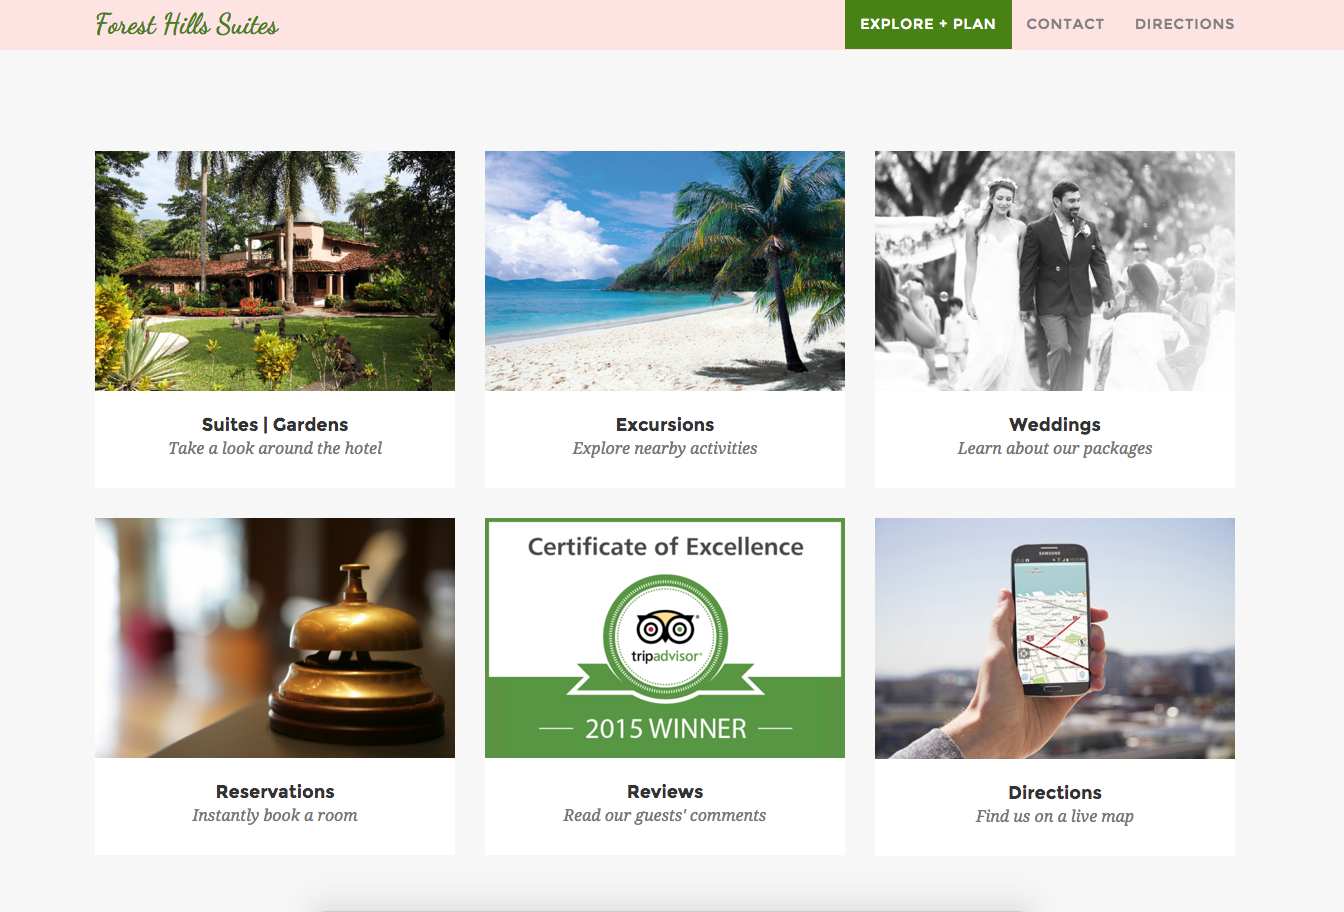
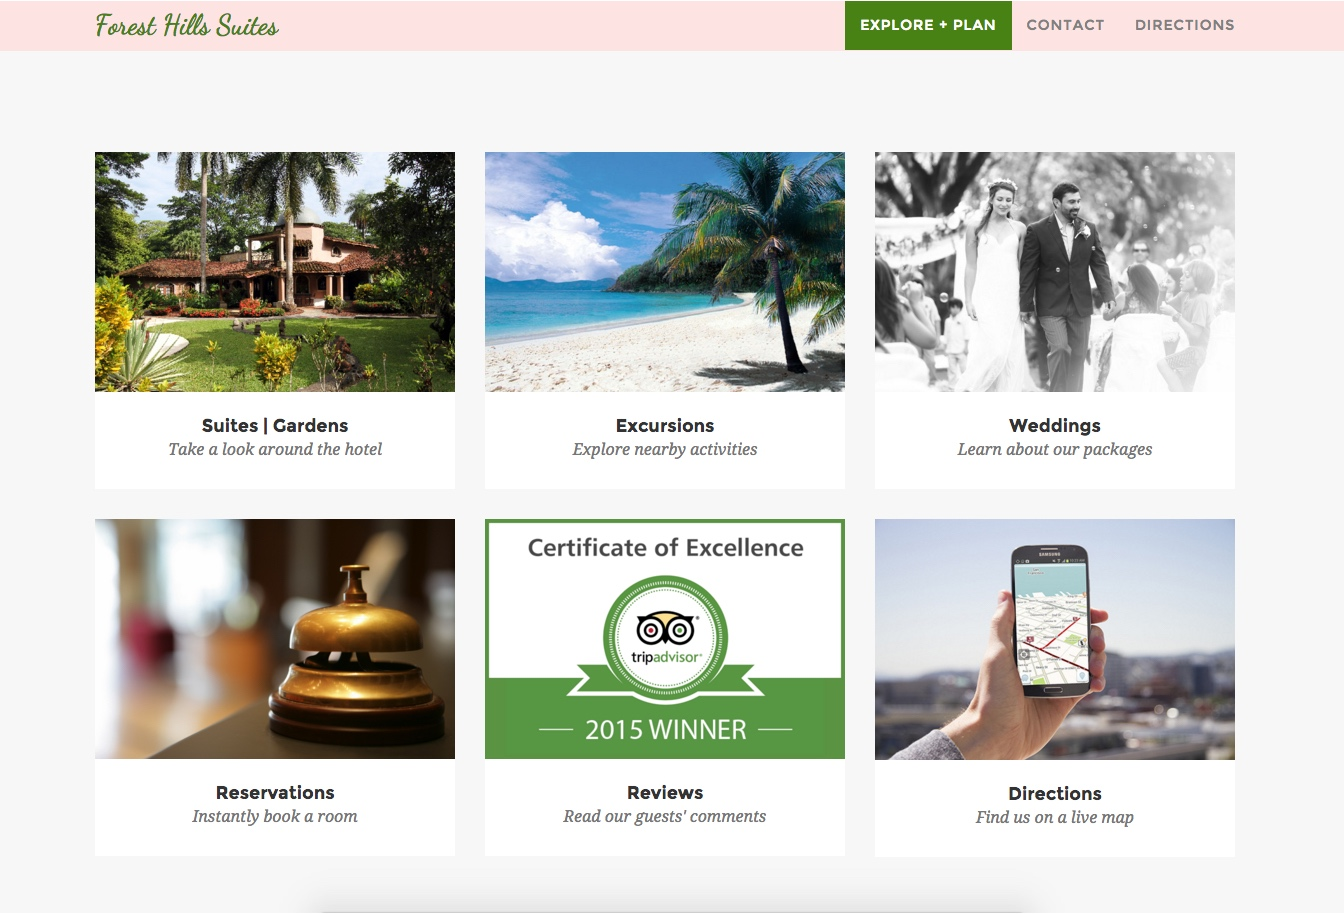
final update before make responsive

diff --git a/assets/css/style.css b/assets/css/style.css
@@ -1120,13 +1120,15 @@ Resume Timeline
 
 /* === Work Section === */
 .works-section {
-    background-color: #f7f7f7;
+    background-image: url(../images/works/background_works3.jpg);
+    background-size: 100%;
     padding-bottom: 700px;
 }
 .portfolio-item {
     padding-right: 5px;
     padding-left: 5px;
     min-height: 235px;
+    font-family: 'Offside', cursive;
 }
 .portfolio-bg{
    background: #fff;
@@ -1134,10 +1136,12 @@ Resume Timeline
    margin-bottom: 20px;
    border: 1px solid #eee;
    border-bottom: 3px double #eee;
+   font-family: 'Offside', cursive;
 }
 .portfolio {
     position: relative;
     overflow: hidden;
+    font-family: 'Offside', cursive;
 }
 
 
@@ -1240,6 +1244,7 @@ Resume Timeline
     height: 45px;
     width: 100%;
     text-align: center;
+    font-family: 'Offside', cursive;
 }
 
 .portfolio:hover .tt-overlay, 
@@ -1910,30 +1915,30 @@ Icon for all respective meta
 
         /* Standard syntax */
         @keyframes rocketgirlfloat {
-            0%   {transform: translate(175px,-80px) rotate(30deg) ;}
-      /*1*/ 15%  {transform: translate(-254px,310px) rotate(-30deg) scale(1.5,1.5);}
-      /*2*/ 35%  {transform: translate(-140px,10px) rotate(40deg) scale(0.75,0.75);}
-      /*3*/ 45%  {transform: translate(-11px,-110px) rotate(-30deg);}
-      /*4*/ 55%  {transform: translate(10px,60px) rotate(30deg) scale(1.5,1.5);}
-      /*5*/ 65%  {transform: translate(-100px,-80px) rotate(30deg);}
-            75%  {transform: translate(40px,-10px) rotate(90deg) scale(1.5,1.5);}
+            0%   {transform: translate(90px,-10px) rotate(30deg) ;}
+      /*1*/ 15%  {transform: translate(-104px,350px) rotate(-30deg) scale(1.2,1.2);}
+      /*2*/ 35%  {transform: translate(20px,180px) rotate(40deg) scale(0.4,0.4);}
+      /*3*/ 45%  {transform: translate(-11px,100px) rotate(-30deg);}
+      /*4*/ 55%  {transform: translate(10px,70px) rotate(30deg) scale(1.2,1.2);}
+      /*5*/ 65%  {transform: translate(-100px,80px) rotate(30deg) scale(.6,.6);}
+            75%  {transform: translate(40px,100px) rotate(90deg) scale(1.2,1.2);}
             85%  {transform: translate(-24px,90px) rotate(20deg);}
-            95%  {transform: translate(40px,10px) rotate(30deg);}
-            100% {transform: translate(-44px,-20px) rotate(30deg);}
+            95%  {transform: translate(-25px,120px) rotate(30deg) scale(.4,.4;}
+            100% {transform: translate(-44px,100px) rotate(30deg);}
         }
 
         /* Chrome, Safari, Opera */ 
         @-webkit-keyframes rocketgirlfloat {
-            0%   {transform: translate(175px,-80px) rotate(30deg) ;}
-      /*1*/ 15%  {transform: translate(-254px,310px) rotate(-10deg) scale(1.5,1.5);}
-      /*2*/ 35%  {transform: translate(-140px,10px) rotate(30deg) scale(0.75,0.75);}
-      /*3*/ 45%  {transform: translate(-11px,-110px) rotate(-40deg);}
-      /*4*/ 55%  {transform: translate(10px,60px) rotate(20deg) scale(1.5,1.5);}
-      /*5*/ 65%  {transform: translate(-100px,-80px) rotate(30deg);}
-            75%  {transform: translate(40px,-10px) rotate(90deg) scale(1.5,1.5);}
+            0%   {transform: translate(90px,-10px) rotate(30deg) ;}
+      /*1*/ 15%  {transform: translate(-104px,350px) rotate(-30deg) scale(1.2,1.2);}
+      /*2*/ 35%  {transform: translate(20px,180px) rotate(40deg) scale(0.4,0.4);}
+      /*3*/ 45%  {transform: translate(-11px,100px) rotate(-30deg);}
+      /*4*/ 55%  {transform: translate(10px,70px) rotate(30deg) scale(1.2,1.2);}
+      /*5*/ 65%  {transform: translate(-100px,80px) rotate(30deg) scale(.6,.6);}
+            75%  {transform: translate(40px,100px) rotate(90deg) scale(1.2,1.2);}
             85%  {transform: translate(-24px,90px) rotate(20deg);}
-            95%  {transform: translate(40px,10px) rotate(30deg);}
-            100% {transform: translate(-44px,-20px) rotate(30deg);}
+            95%  {transform: translate(-25px,120px) rotate(30deg) scale(.4,.4;}
+            100% {transform: translate(-44px,100px) rotate(30deg);}
         }
 
         .rockettext{
@@ -2208,21 +2213,24 @@ Icon for all respective meta
     line-height: 110%;
 }
 .portfolio-modal .modal-content h2{
+    font-family: 'Offside', cursive;
     margin-bottom:15px;
     font-size:2em
 }
 .portfolio-modal .modal-content p{
+    font-family: 'Offside', cursive;
     margin-bottom:30px;
     font-size:1em;
     font-color: red;
 }
 .portfolio-modal .modal-content p.item-intro{
     margin:20px 0 30px;
-    font-family:"Droid Serif","Helvetica Neue",Helvetica,Arial,sans-serif;
+    font-family: 'Offside', cursive;
     font-style:italic;
     font-size:16px
 }
 .portfolio-modal .modal-content ul.list-inline{
+    font-family: 'Offside', cursive;
     margin-bottom:30px;
     margin-top:0
 }

diff --git a/index.html b/index.html
@@ -28,6 +28,7 @@
 	<link href="assets/css/style.css" rel="stylesheet" media="screen">
   <!-- Responsive CSS -->
   <link href="assets/css/responsive.css" rel="stylesheet">
+  <link href="assets/css/super_responsive.css" rel="stylesheet">
 
   <!-- HTML5 Shim and Respond.js IE8 support of HTML5 elements and media queries -->
   <!-- WARNING: Respond.js doesn't work if you view the page via file:// -->
@@ -237,10 +238,10 @@
 
       <div class="container-works">
 
-        <h2 class="section-title wow fadeInUp">Portfolio</h2>
+        <h2 class="section-title wow fadeInUp"><font color="white">Portfolio</font></h2>
       
 
-            <div class="portfolio-item col-xs-12 col-sm-6 col-md-4 col-lg-3" data-groups='["all", "design"]'>
+            <div class="portfolio-item col-xs-12 col-sm-6 col-md-6 col-lg-3" data-groups='["all", "design"]'>
               <div class="portfolio-bg">
                 <div class="portfolio">
                   <a href="#portfolioModal2" class="portfolio-link" data-toggle="modal">
@@ -257,7 +258,7 @@
             </div><!-- /.portfolio-item -->
 
 
-            <div class="portfolio-item col-xs-12 col-sm-6 col-md-4 col-lg-3" data-groups='["all", "design"]'>
+            <div class="portfolio-item col-xs-12 col-sm-6 col-md-6 col-lg-3" data-groups='["all", "design"]'>
               <div class="portfolio-bg">
                 <div class="portfolio">
                   <a href="#portfolioModal1" class="portfolio-link" data-toggle="modal">
@@ -274,7 +275,7 @@
             </div><!-- /.portfolio-item -->
 
 
-            <div class="portfolio-item col-xs-12 col-sm-6 col-md-4 col-lg-3" data-groups='["all", "design"]'>
+            <div class="portfolio-item col-xs-12 col-sm-6 col-md-6 col-lg-3" data-groups='["all", "design"]'>
               <div class="portfolio-bg">
                 <div class="portfolio">
                   <a href="#portfolioModal4" class="portfolio-link" data-toggle="modal">
@@ -290,7 +291,7 @@
               </div><!-- /.portfolio-bg -->
             </div><!-- /.portfolio-item -->
 
-            <div class="portfolio-item col-xs-12 col-sm-6 col-md-4 col-lg-3" data-groups='["all", "design"]'>
+            <div class="portfolio-item col-xs-12 col-sm-6 col-md-6 col-lg-3" data-groups='["all", "design"]'>
               <div class="portfolio-bg">
                 <div class="portfolio">
                   <a href="#portfolioModal3" class="portfolio-link" data-toggle="modal">
@@ -307,7 +308,7 @@
             </div><!-- /.portfolio-item -->
 
 
-            <div class="portfolio-item col-xs-12 col-sm-6 col-md-4 col-lg-3" data-groups='["all", "design"]'>
+            <div class="portfolio-item col-xs-12 col-sm-6 col-md-6 col-lg-3" data-groups='["all", "design"]'>
               <div class="portfolio-bg">
                 <div class="portfolio">
                   <a href="#portfolioModal5" class="portfolio-link" data-toggle="modal">
@@ -323,7 +324,7 @@
               </div><!-- /.portfolio-bg -->
             </div><!-- /.portfolio-item -->
 
-            <div class="portfolio-item col-xs-12 col-sm-6 col-md-4 col-lg-3" data-groups='["all", "design"]'>
+            <div class="portfolio-item col-xs-12 col-sm-6 col-md-6 col-lg-3" data-groups='["all", "design"]'>
               <div class="portfolio-bg">
                 <div class="portfolio">
                   <a href="#portfolioModal6" class="portfolio-link" data-toggle="modal">
@@ -339,7 +340,7 @@
               </div><!-- /.portfolio-bg -->
             </div><!-- /.portfolio-item -->
 
-            <div class="portfolio-item col-xs-12 col-sm-6 col-md-4 col-lg-3" data-groups='["all", "design"]'>
+            <div class="portfolio-item col-xs-12 col-sm-6 col-md-6 col-lg-3" data-groups='["all", "design"]'>
               <div class="portfolio-bg">
                 <div class="portfolio">
                   <a href="#portfolioModal7" class="portfolio-link" data-toggle="modal">
@@ -356,7 +357,7 @@
             </div><!-- /.portfolio-item -->
 
 
-            <div class="portfolio-item col-xs-12 col-sm-6 col-md-4 col-lg-3" data-groups='["all", "design"]'>
+            <div class="portfolio-item col-xs-12 col-sm-6 col-md-6 col-lg-3" data-groups='["all", "design"]'>
               <div class="portfolio-bg">
                 <div class="portfolio">
                   <a href="#portfolioModal8" class="portfolio-link" data-toggle="modal">

diff --git a/assets/css/super_responsive.css b/assets/css/super_responsive.css
@@ -1,0 +1,108 @@
+@media (max-width : 400px) {
+	.works-section {
+    background-color: blue;
+    padding-bottom: 2300px;
+}
+}
+@media only screen and (min-width : 401px) and (max-width : 445px) {
+	.works-section {
+    background-color: pink;
+    padding-bottom: 2550px;
+	}
+}
+
+@media (min-width : 445px) and (max-width : 500px) {
+	.works-section {
+	  background-color: yellow;
+    padding-bottom: 2700px;
+  }
+}
+
+@media (min-width : 501px) and (max-width : 520px) {
+	.works-section {
+	  background-color: #ffa500;
+    padding-bottom: 2950px;
+  }
+}
+
+@media (min-width : 521px) and (max-width : 595px) {
+	.works-section {
+	  background-color: red;
+    padding-bottom: 3200px;
+  }
+}
+
+@media (min-width : 596px) and (max-width : 640px) {
+	.works-section {
+    padding-bottom: 3460px;
+  }
+}
+
+@media screen and (min-width:641px) and (max-width:720px) {
+	.works-section {
+    padding-bottom: 3700px;
+  }
+}
+
+@media screen and (min-width:721px) and (max-width:750px) {
+	.works-section {
+    padding-bottom: 4200px;
+  }
+}
+
+@media screen and (min-width:751px) and (max-width:768px) {
+	.works-section {
+    padding-bottom: 4350px;
+  }
+}
+
+@media screen and (min-width:769px) and (max-width:800px) {
+	.works-section {
+    padding-bottom: 1250px;
+  }
+}
+
+@media screen and (min-width:801px) and (max-width:900px) {
+	.works-section {
+    padding-bottom: 1250px;
+  }
+}
+
+@media screen and (min-width:901px) and (max-width:991px) {
+	.works-section {
+    padding-bottom: 1450px;
+  }
+}
+
+@media screen and (min-width:992px) and (max-width:1120px) {
+	.works-section {
+    padding-bottom: 1550px;
+  }
+}
+
+@media screen and (min-width:1121px) and (max-width:1197px) {
+	.works-section {
+    padding-bottom: 1750px;
+  }
+}
+
+@media screen and (min-width:1198px) and (max-width:1800px) {
+	.works-section {
+    padding-bottom: 610px;
+  }
+}
+
+@media screen and (min-width:1801px) and (max-width:2400px) {
+	.works-section {
+    padding-bottom: 820px;
+  }
+}
+
+@media screen and (min-width:2401px) and (max-width:2800px) {
+	.works-section {
+    padding-bottom: 920px;
+  }
+}
+
+
+

diff --git a/assets/css/responsive.css b/assets/css/responsive.css
@@ -225,6 +225,7 @@
 		padding:10px 15px;
 	}
 
+
 	.navbar-custom .dropdown-menu{
 		margin-left: 20px;
 	}
